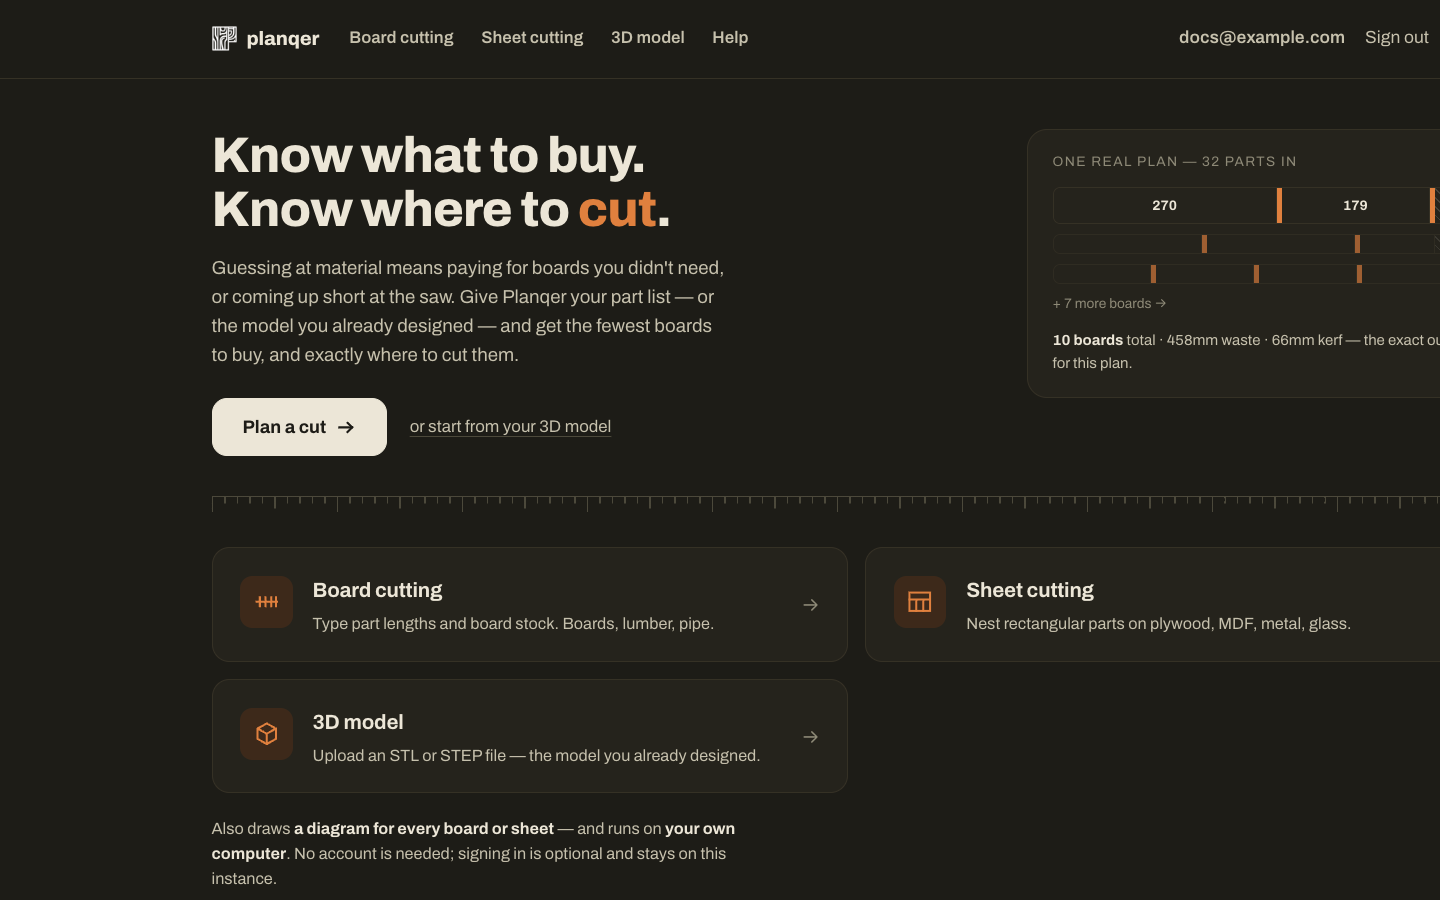
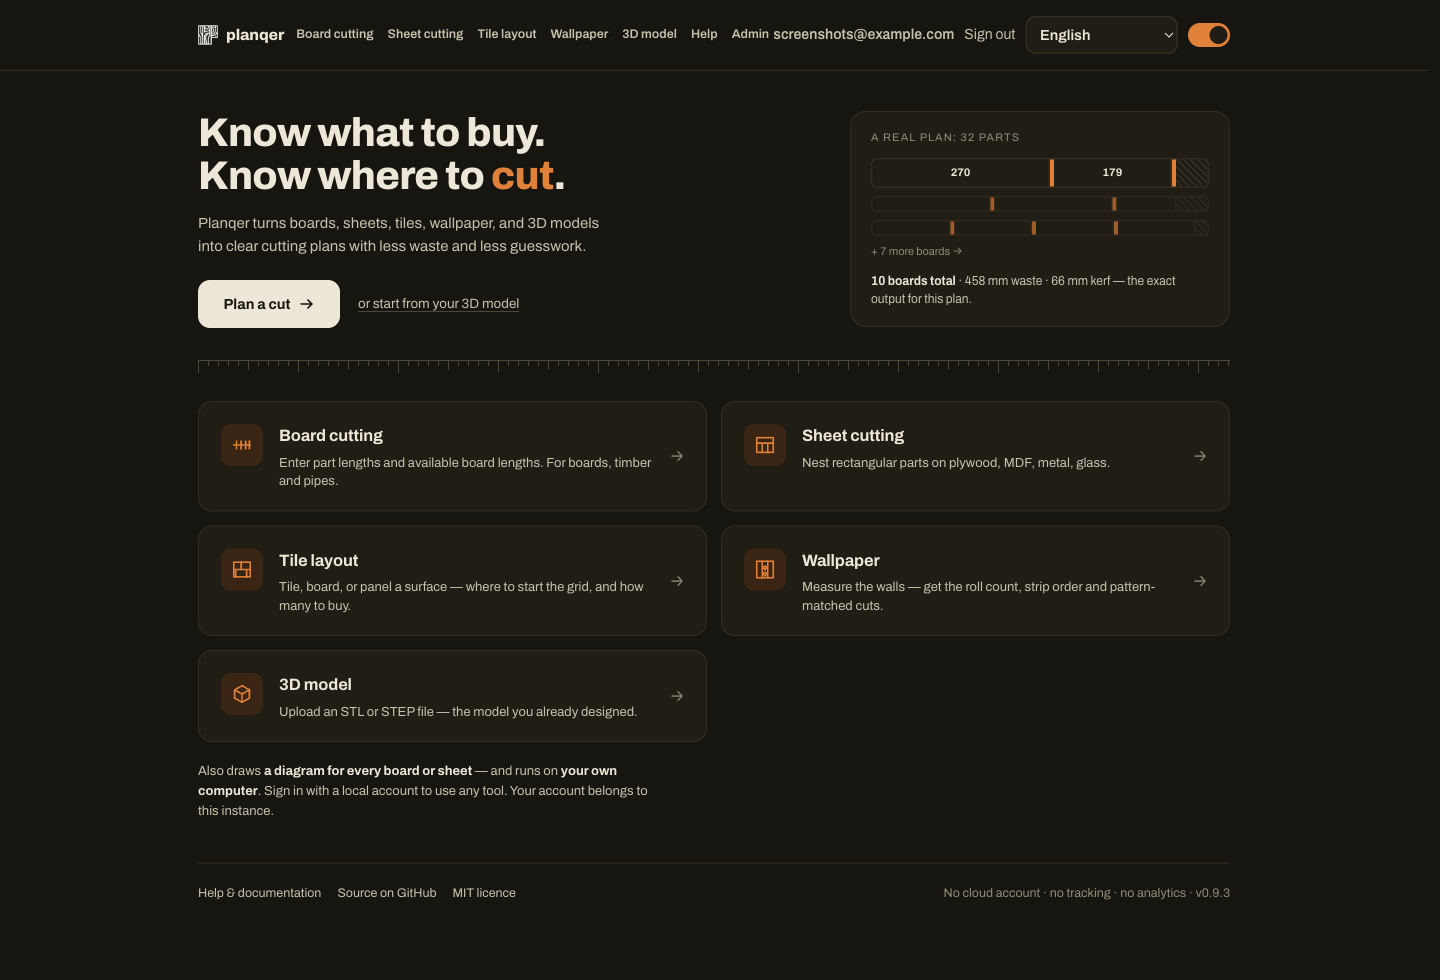
Refresh the documentation screenshots and add the wallpaper planner
Retake every screenshot against the current UI (the homepage now shows the
Wallpaper card), add wallpaper room and plan screenshots to the wallpaper
guide, and add the wallpaper plan to the README gallery.

diff --git a/README.md b/README.md
@@ -42,11 +42,12 @@ storage.
 <!-- markdownlint-disable MD013 MD033 -->
 <table>
 <tr>
-<td width="20%"><a href="docs/assets/screenshots/board-cutting-result.png"><img src="docs/assets/screenshots/board-cutting-result.png" alt="Board cutting result"></a><br><sub>Board cutting</sub></td>
-<td width="20%"><a href="docs/assets/screenshots/sheet-cutting-result.png"><img src="docs/assets/screenshots/sheet-cutting-result.png" alt="Sheet cutting result"></a><br><sub>Sheet cutting</sub></td>
-<td width="20%"><a href="docs/assets/screenshots/tile-layout.png"><img src="docs/assets/screenshots/tile-layout.png" alt="Tile layout surface setup"></a><br><sub>Tile layout</sub></td>
-<td width="20%"><a href="docs/assets/screenshots/model-cutlist.png"><img src="docs/assets/screenshots/model-cutlist.png" alt="3D model upload"></a><br><sub>3D model → cutlist</sub></td>
-<td width="20%"><a href="docs/assets/screenshots/dashboard.png"><img src="docs/assets/screenshots/dashboard.png" alt="Project dashboard"></a><br><sub>Saved projects</sub></td>
+<td width="16%"><a href="docs/assets/screenshots/board-cutting-result.png"><img src="docs/assets/screenshots/board-cutting-result.png" alt="Board cutting result"></a><br><sub>Board cutting</sub></td>
+<td width="16%"><a href="docs/assets/screenshots/sheet-cutting-result.png"><img src="docs/assets/screenshots/sheet-cutting-result.png" alt="Sheet cutting result"></a><br><sub>Sheet cutting</sub></td>
+<td width="16%"><a href="docs/assets/screenshots/tile-layout.png"><img src="docs/assets/screenshots/tile-layout.png" alt="Tile layout surface setup"></a><br><sub>Tile layout</sub></td>
+<td width="16%"><a href="docs/assets/screenshots/wallpaper-plan.png"><img src="docs/assets/screenshots/wallpaper-plan.png" alt="Wallpaper plan"></a><br><sub>Wallpaper</sub></td>
+<td width="16%"><a href="docs/assets/screenshots/model-cutlist.png"><img src="docs/assets/screenshots/model-cutlist.png" alt="3D model upload"></a><br><sub>3D model → cutlist</sub></td>
+<td width="16%"><a href="docs/assets/screenshots/dashboard.png"><img src="docs/assets/screenshots/dashboard.png" alt="Project dashboard"></a><br><sub>Saved projects</sub></td>
 </tr>
 </table>
 <!-- markdownlint-enable MD013 MD033 -->

diff --git a/docs/guide/wallpaper.md b/docs/guide/wallpaper.md
@@ -6,6 +6,8 @@ installation guidance.
 
 ## Measure the room
 
+![Measuring a four-wall room with the live top view](../assets/screenshots/wallpaper-room.png)
+
 Stand in the doorway and look into the room. Start with the wall on your left
 and work clockwise, one wall at a time. Walls are lettered like a drawing
 (Wall A, B, C…); rename them by what is on them, such as "Window wall". A live
@@ -50,6 +52,8 @@ If the final strip already uses the full roll width there is no room to wrap,
 so the planner prefers a layout that leaves room.
 
 ## Read the cut plan
+
+![Wallpaper plan with rolls to buy, first-strip options and a wall-by-wall layout](../assets/screenshots/wallpaper-plan.png)
 
 The Plan step shows the rolls needed, the spare rolls added by your spare margin
 and the roll length lost to pattern matching, roll ends and top/bottom allowance.
